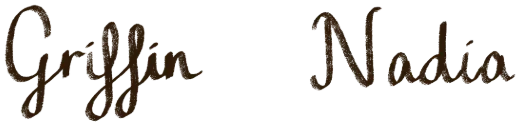
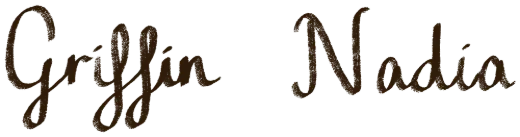
feat: final polish: the names pulled in to the "&", buttons with a touch of depth, bar and dock on the card's paper, and the envelope's letter the card's paper throughout
The names: the same gap either side of the "&", its own ink width, measured on the ink (art-export), the letters
kept at their size. Buttons: a 1px lighter top edge, a soft shadow and a 1px press, primary and secondary, both
themes. The bar and the dock take the card's paper; every paper surface lays the sheet at the screen's size so the
grain matches. The envelope's letter has the card's corner tints and, in Lantern, the night blend (it inherited the
day's multiply). Tests: the envelope at 0, 25, 50, 75 and 100% in both themes, and the names' gap.

diff --git a/e2e/envelope-paper.spec.ts b/e2e/envelope-paper.spec.ts
@@ -1,0 +1,54 @@
+import { test, expect } from "@playwright/test"
+
+// Final run P: the letter rising out of the envelope is the card's own paper, the same colour token, corner tints and
+// paper texture (same sheet, same scale, same blend) from the first frame to the last, in both themes. The opening is
+// held at 0, 25, 50, 75 and 100% of its motion; at each, the envelope's letter is compared with the card it becomes,
+// and the screen is screenshotted. The paper is made in the browser, so this test asks for it (ng-paper=on) and runs
+// with software WebGL.
+test.use({ reducedMotion: "no-preference", launchOptions: { args: ["--hide-scrollbars", "--use-gl=angle", "--use-angle=swiftshader", "--enable-unsafe-swiftshader"] } })
+test.describe.configure({ timeout: 90_000 })
+
+for (const theme of ["autumn", "lantern"] as const) test(`the envelope's letter is the card's paper, frame by frame (${theme})`, async ({ page }) => {
+  await page.addInitScript((t) => { localStorage.setItem("ng-music", "off"); localStorage.setItem("ng-theme", t); localStorage.setItem("ng-paper", "on") }, theme)
+  await page.goto("?h=sample")
+  await expect(page.getByRole("button", { name: "Open your invite" })).toBeVisible()
+  test.skip(!(await page.evaluate(() => Boolean(document.createElement("canvas").getContext("webgl2")))), "no WebGL here")
+  await page.mouse.click(5, 5) // the first input starts the paper
+  await expect(page.locator("html[data-paper]")).toHaveCount(1, { timeout: 30_000 })
+  await page.waitForTimeout(500) // its 400 ms fade in
+  // The float and anything else still moving, settled; then the opening starts and is held at its start
+  await page.evaluate(() => { for (const a of document.getAnimations()) { a.pause(); if (!Number.isFinite(Number(a.effect?.getComputedTiming().endTime))) a.currentTime = 0 } }) // the float at its start
+  // The opening's timer to the page (900 ms) is held until the frames are done; everything else runs as normal
+  await page.evaluate(() => { const st = window.setTimeout; window.setTimeout = ((f: TimerHandler, ms?: number, ...a: unknown[]) => (ms === 900 ? 0 : st(f, ms, ...a))) as typeof window.setTimeout })
+  await page.evaluate(() => (document.querySelector(".envelope") as HTMLElement).click())
+  await page.evaluate(() => new Promise((r) => requestAnimationFrame(() => requestAnimationFrame(r))))
+  const opening = await page.evaluate(() => {
+    const all = document.getAnimations().filter((a) => (a.effect as KeyframeEffect)?.target instanceof Element && (a.effect as KeyframeEffect).target!.closest(".arrival, .letter-sealed") && Number.isFinite(Number(a.effect!.getComputedTiming().endTime)))
+    for (const a of all) a.pause()
+    ;(window as unknown as { __open: Animation[] }).__open = all
+    return all.length
+  })
+  expect(opening).toBeGreaterThan(0)
+  for (const pct of [0, 25, 50, 75, 100]) {
+    const look = await page.evaluate((f) => {
+      // One clock for the whole opening: f of the way to where its last part ends
+      const all = (window as unknown as { __open: Animation[] }).__open, end = Math.max(...all.map((a) => Number(a.effect!.getComputedTiming().endTime)))
+      for (const a of all) a.currentTime = f * end
+      const paper = document.querySelector(".envelope-paper")!, card = document.querySelector(".letter-sealed .letter, #letter")!
+      const of = (el: Element, pseudo?: string) => { const c = getComputedStyle(el, pseudo); return pseudo ? { image: c.backgroundImage, size: c.backgroundSize, blend: c.mixBlendMode, opacity: c.opacity } : { colour: c.backgroundColor } }
+      // The card's corner tints are on its ::before; the envelope's letter carries the same two as background layers
+      const tints = (s: string) => (s.match(/radial-gradient\([^)]*\([^)]*\)[^)]*\)/g) ?? []).join(" | ")
+      return {
+        colour: [of(paper).colour, of(card).colour],
+        tints: [tints(getComputedStyle(paper).backgroundImage), tints(getComputedStyle(card, "::before").backgroundImage)],
+        paper: [of(paper, "::after"), of(card, "::after")],
+        visible: getComputedStyle(paper).opacity,
+      }
+    }, pct / 100)
+    expect(look.colour[0], `${pct}%: the card's colour`).toBe(look.colour[1])
+    expect(look.tints[0], `${pct}%: the card's corner tints`).toBe(look.tints[1])
+    expect(look.paper[0], `${pct}%: the card's paper texture, scale and blend`).toEqual(look.paper[1])
+    expect(look.paper[0].image, `${pct}%: the paper is there`).toContain("url(")
+    await expect(page).toHaveScreenshot(`envelope-${theme}-${pct}.png`, { animations: "allow", maxDiffPixelRatio: 0.01, mask: [page.locator(".count-boxes")] })
+  }
+})

diff --git a/src/index.css b/src/index.css
@@ -539,9 +539,11 @@
    screen's size (--paper-live, src/lib/paper-live.ts), so the words, fields and buttons take the paper too. On the
    letter, every sheet, the driver card and paper you could hold (not twice when one sits on another). Never in the
    way of a tap. Until it's made (or without WebGL) the paper is plain. */
+/* Every surface lays the sheet at the screen's size (it's made at the screen's size), so the grain is the same scale on
+   the card, the envelope's letter, the bar and the dock (final run P), not stretched to each box. */
 .letter::after, .sheet-bright::after, .paper-feel::after, .envelope-paper::after {
   content: ""; position: absolute; inset: 0; z-index: 30; border-radius: inherit; pointer-events: none;
-  background: var(--paper-live, none) center / cover no-repeat;
+  background: var(--paper-live, none) center / 100vw 100vh no-repeat;
   mix-blend-mode: var(--paper-blend); opacity: 0;
 }
 /* Once it's made (src/lib/paper-live.ts), it fades in over 400 ms at the strength that keeps text AA (--paper-on) */
@@ -549,6 +551,18 @@
 /* The driver card stays bright paper in Lantern, where the sheet made is the night one: plain there */
 [data-theme="lantern"] .sheet-bright::after { display: none; }
 .letter .paper-feel::after, .sheet .paper-feel::after { display: none; }
+/* Final run P: the top bar and the dock are the same paper as the card (its colour token and the same sheet made in the
+   browser), so bar, card and dock read as one sheet. The sheet is the screen's size, laid from the top for the bar and
+   from the bottom for the dock, so its grain lines up with the card's. From 768 the nav sits inside the bar. */
+.site-bar::after, .site-nav::after {
+  content: ""; position: absolute; inset: 0; z-index: 30; pointer-events: none;
+  background: var(--paper-live, none) top center / 100vw 100vh no-repeat;
+  mix-blend-mode: var(--paper-blend); opacity: 0;
+}
+.site-nav { isolation: isolate; }
+.site-nav::after { background-position: bottom center; }
+[data-paper] :is(.site-bar, .site-nav)::after { opacity: var(--paper-on, var(--paper-strength)); transition: opacity 400ms var(--ease-paper); }
+@media (min-width: 768px) { .site-nav::after { display: none; } }
 @media print { .letter::after, .paper-feel::after { display: none; } }
 
 /* The top bar, on every screen and never hidden: the mark on the left, the switches on the right (the nav and RSVP
@@ -1120,10 +1134,10 @@ svg.lucide { stroke-width: 1.5; }
 .names-art-wrap { position: relative; display: block; }
 .names-art-ink, .names-art-amp { position: absolute; inset: 0; -webkit-mask: var(--names-mask) left center / contain no-repeat; mask: var(--names-mask) left center / contain no-repeat; background: var(--ink); }
 .names-art-amp { -webkit-mask-image: var(--amp-mask); mask-image: var(--amp-mask); background: var(--action); }
-.names-lettering { width: min(100%, 442px); } /* 15% under the 520 it was (18e) */
+.names-lettering { width: min(92%, 406px); } /* the letters as big as at 442 before the words moved in (final run P) */
 /* On the letter inside the envelope: centred, brown always (the envelope stays cream) */
 .envelope-paper { display: grid; place-items: start center; padding-top: 12%; }
-.envelope-names { width: 72%; }
+.envelope-names { width: 66%; } /* 72% before the words moved in: the same letter size (final run P) */
 .envelope-names > span { -webkit-mask-position: center; mask-position: center; }
 .names-lettering.is-revealing { animation: letter-draw 1400ms var(--ease-paper) 200ms both; }
 @keyframes letter-draw { from { clip-path: inset(0 100% 0 0); } to { clip-path: inset(0 0 0 0); } }

diff --git a/src/styles/polish.css b/src/styles/polish.css
@@ -131,7 +131,20 @@ html { scrollbar-gutter: stable; }
    from its first frame: walnut paper, cream names, the sage "&" (no white sheet, no flash on the way to the page) */
 [data-theme="lantern"] .envelope .envelope-paper {
   --ink: var(--brand-kinari); --action: var(--brand-sage); --letter-edge-color: var(--brand-hachimitsu);
-  background: var(--brand-yoru);
+  /* Final run P: the night card's own paper from the first frame, its corner tints and its paper blended the night
+     way (screen), not the envelope's day tokens (multiply) */
+  --paper-blend: screen;
+  background:
+    radial-gradient(120% 80% at 0% 0%, color-mix(in oklab, var(--brand-hachimitsu) 8%, transparent), transparent 60%),
+    radial-gradient(120% 90% at 100% 100%, color-mix(in oklab, var(--brand-ai) 30%, transparent), transparent 55%),
+    var(--brand-yoru);
+}
+/* By day, the card's paper too: its colour token and the same two corner tints as .letter::before */
+.envelope .envelope-paper {
+  background:
+    radial-gradient(120% 80% at 0% 0%, color-mix(in oklab, var(--brand-mitsu) 14%, transparent), transparent 60%),
+    radial-gradient(120% 90% at 100% 100%, color-mix(in oklab, var(--brand-sage) 12%, transparent), transparent 55%),
+    var(--letter-bg);
 }
 
 /* Her garden drawing on The day (Options → The day). The ink is a mask, so it takes the page's ink colour:
@@ -174,3 +187,17 @@ html { scrollbar-gutter: stable; }
 
 /* Phones (Options → The day → Garden on phones → Short band, default): the garden as a band about 140px tall, the
    drawing scaled so the pagoda and the start of the aisle both sit in it, so the timeline starts higher */
+
+/* Button depth (final run P): primary and secondary read as something to press through the paper. A 1px lighter top
+   edge, a soft shadow below, and on press they sink 1px with the shadow gone. Inset and shadow only, so nothing
+   changes size and the words keep their contrast. */
+.btn-primary, [data-slot="button"][data-variant="secondary"] {
+  box-shadow: inset 0 1px 0 var(--button-sheen), var(--button-drop);
+  transition: background-color var(--duration-fast) var(--ease-paper), border-color var(--duration-fast) var(--ease-paper), box-shadow var(--duration-fast) var(--ease-paper), transform var(--duration-fast) var(--ease-paper);
+}
+[data-slot="button"][data-variant="secondary"] { box-shadow: inset 0 1px 0 var(--button-sheen-secondary), var(--button-drop); }
+.btn-primary:active:not(:disabled), .btn-primary[data-force="pressed"],
+[data-slot="button"][data-variant="secondary"]:active:not(:disabled), [data-slot="button"][data-variant="secondary"][data-force="pressed"] {
+  transform: translateY(1px); box-shadow: inset 0 1px 0 transparent, 0 0 0 transparent;
+}
+.btn-primary:disabled, [data-slot="button"][data-variant="secondary"]:disabled { box-shadow: none; }

diff --git a/e2e/names-gap.spec.ts b/e2e/names-gap.spec.ts
@@ -1,0 +1,24 @@
+import { test, expect } from "@playwright/test"
+
+// Final run P: in Nadia's lettering, Griffin and Nadia sit the same distance from the "&", about the "&"'s own width,
+// measured on the ink of the exported masks (scripts/art-export.mjs), not the image box
+test("the names: the same gap either side of the \"&\", about its width", async ({ page }, info) => {
+  test.skip(info.project.name !== "phone", "the masks are the same everywhere")
+  await page.goto("?h=sample")
+  const g = await page.evaluate(async () => {
+    const cols = async (src: string) => {
+      const i = new Image(); i.src = src; await i.decode()
+      const c = new OffscreenCanvas(i.width, i.height), x = c.getContext("2d")!; x.drawImage(i, 0, 0)
+      const px = x.getImageData(0, 0, i.width, i.height).data, on: boolean[] = []
+      for (let X = 0; X < i.width; X++) { let ink = false; for (let y = 0; y < i.height && !ink; y++) ink = px[(y * i.width + X) * 4 + 3] > 8; on.push(ink) }
+      return on
+    }
+    const base = "/wedding/"
+    const N = await cols(`${base}art/names/names-mask-1040.webp`), A = await cols(`${base}art/names/amp-mask-1040.webp`)
+    const aL = A.indexOf(true), aR = A.lastIndexOf(true)
+    const gR = N.slice(0, aL).lastIndexOf(true), nL = aR + 1 + N.slice(aR + 1).indexOf(true)
+    return { amp: aR - aL, left: aL - gR, right: nL - aR }
+  })
+  expect(Math.abs(g.left - g.right)).toBeLessThanOrEqual(2)
+  expect(Math.abs(g.left - g.amp)).toBeLessThanOrEqual(4)
+})

diff --git a/src/styles/tokens.css b/src/styles/tokens.css
@@ -80,6 +80,10 @@
   --line-edge: var(--brand-forest);                 /* the letter's top edge */
   --surface-scrim: var(--brand-kinari);
   --tint-shadow: 66 26 5;
+  /* Button depth (final run P): a 1px lighter top edge (the sheen) and a soft 1 to 2px shadow below, very slight */
+  --button-sheen: rgb(255 255 255 / 0.22);
+  --button-sheen-secondary: rgb(255 255 255 / 0.65);
+  --button-drop: 0 1px 2px rgb(var(--tint-shadow) / 0.2);
   /* The paper (18f, lab only for now): Paper's PaperTexture, made in the browser at the screen's size
      (src/lib/paper-live.ts, preset in src/lib/paper.ts) as --paper-live, and laid over every paper surface
      (index.css), words, fields and buttons included. Not started on the guest site yet, so it's plain there. By day white paper multiplied in; in Lantern inverted (light fibres) and screened in. The hanko's ink is
@@ -118,6 +122,9 @@
   --line-edge: var(--brand-hachimitsu);
   --surface-scrim: var(--brand-yoru);
   --tint-shadow: 0 0 0;
+  --button-sheen: rgb(255 255 255 / 0.18);
+  --button-sheen-secondary: rgb(255 255 255 / 0.08);
+  --button-drop: 0 1px 2px rgb(0 0 0 / 0.45);
 }
 
 /* shadcn/ui and Tailwind read these names; they only alias the system layer.

diff --git a/src/lib/art.ts b/src/lib/art.ts
@@ -9,7 +9,7 @@ export const ART = {
    * Her lettering for the names (17 Oct), as two masks (the names, the "&"), filled with theme tokens in CSS. The
    * page keeps the names as text for screen readers and the title. ratio holds the space before it loads (no jump).
    */
-  names: { mask: "art/names/names-mask", amp: "art/names/amp-mask", ratio: 4.1402 }, // 18 Oct lettering, 520 and 1040 wide
+  names: { mask: "art/names/names-mask", amp: "art/names/amp-mask", ratio: 3.8023 }, // 18 Oct lettering, 520 and 1040 wide; the words pulled in to the "&" (final run P)
   /** Her wax seal and gum leaves on their own (17 Oct): the seal wherever the G&N seal shows alone, the leaves in the lab */
   seal: { src: "art/seal/wax-seal", widths: [64, 128, 256] },
   leaves: { src: "art/leaves/gum-leaves", widths: [160, 320], ratio: 0.743 },
